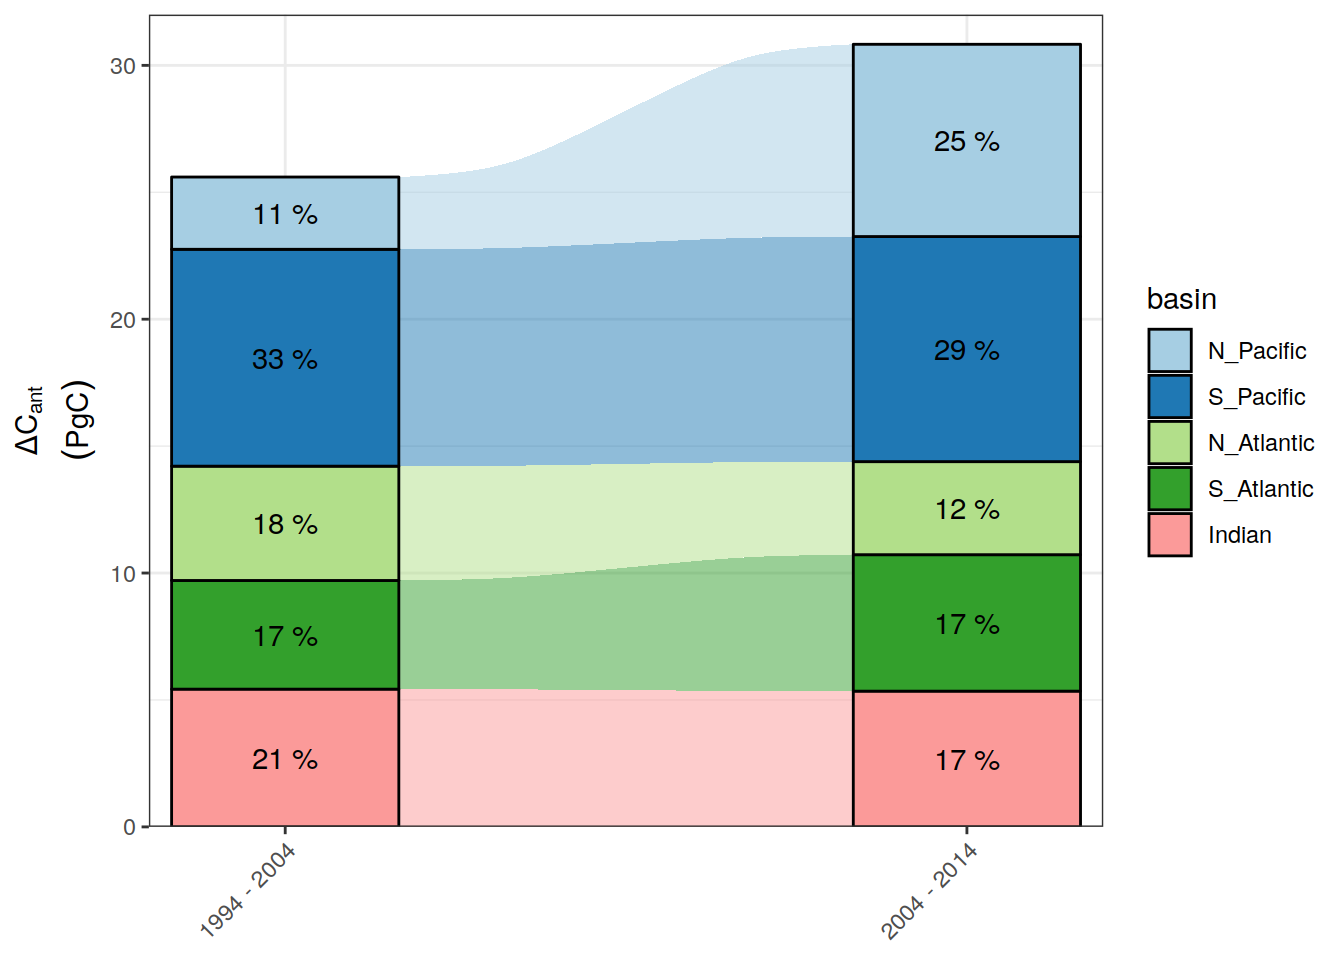
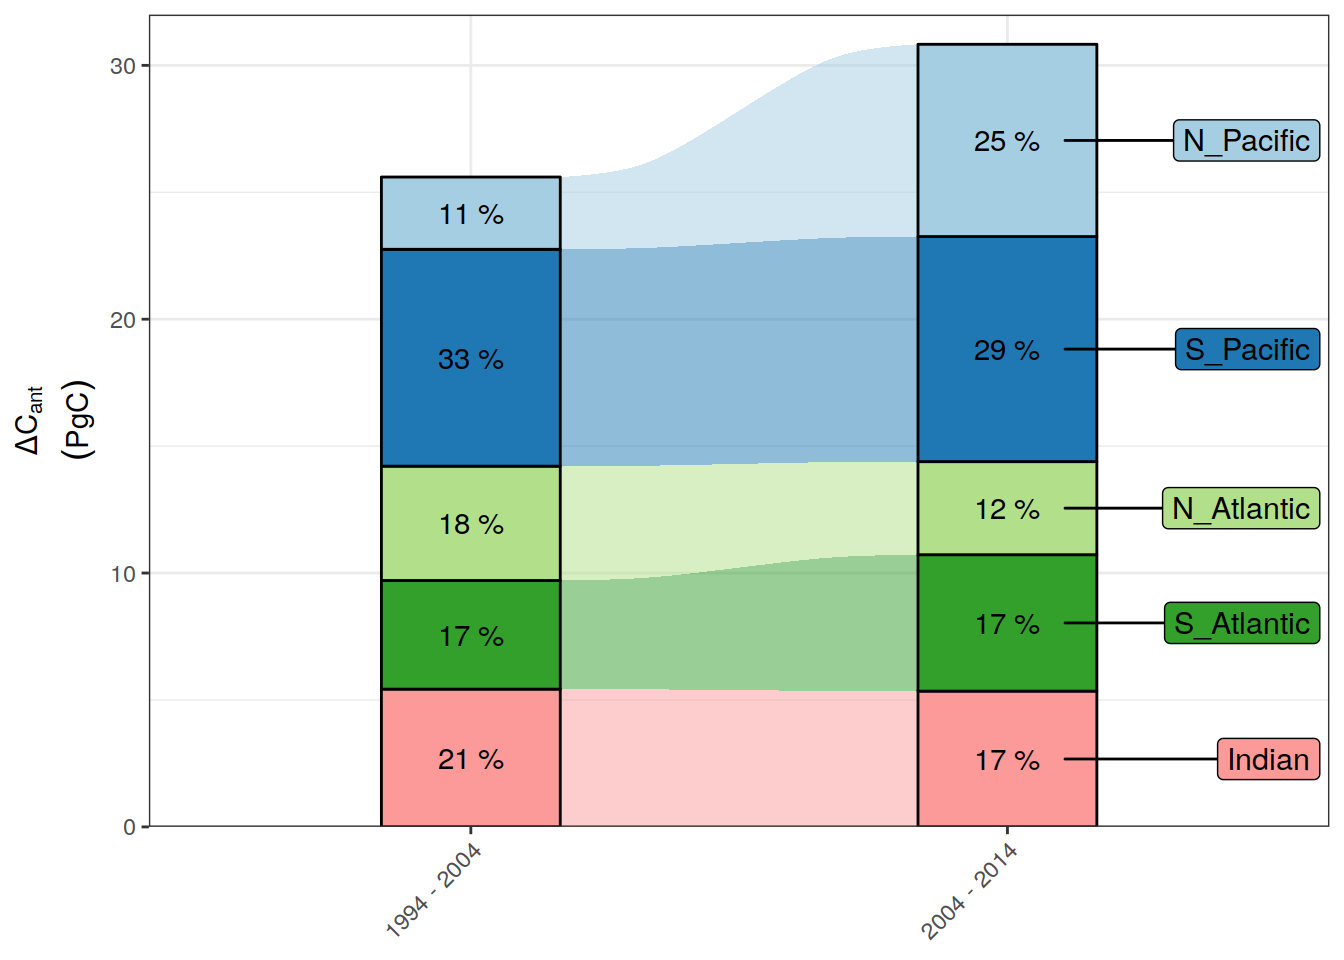
Build site.

diff --git a/docs/results_publication.html b/docs/results_publication.html
@@ -645,16 +645,16 @@ This reproducible <a href="http://rmarkdown.rstudio.com">R Markdown</a> analysis
 <div class="panel panel-default">
 <div class="panel-heading">
 <p class="panel-title">
-<a data-toggle="collapse" data-parent="#workflowr-checks" href="#strongRepositoryversionstrongahrefhttpsgithubcomjensdanielmuelleremlrobsanalysistreecdbd92cdd8b9888cfcb87dbf480b8ccfe9879034targetblankcdbd92ca"> <span class="glyphicon glyphicon-ok text-success" aria-hidden="true"></span> <strong>Repository version:</strong> <a href="https://github.com/jens-daniel-mueller/emlr_obs_analysis/tree/cdbd92cdd8b9888cfcb87dbf480b8ccfe9879034" target="_blank">cdbd92c</a> </a>
+<a data-toggle="collapse" data-parent="#workflowr-checks" href="#strongRepositoryversionstrongahrefhttpsgithubcomjensdanielmuelleremlrobsanalysistree4901b0fa12cfd097637f7c56dafa1d5ea76a2561targetblank4901b0fa"> <span class="glyphicon glyphicon-ok text-success" aria-hidden="true"></span> <strong>Repository version:</strong> <a href="https://github.com/jens-daniel-mueller/emlr_obs_analysis/tree/4901b0fa12cfd097637f7c56dafa1d5ea76a2561" target="_blank">4901b0f</a> </a>
 </p>
 </div>
[2 lines of base64/hex data omitted]
 <div class="panel-body">
 <p>
 Great! You are using Git for version control. Tracking code development and connecting the code version to the results is critical for reproducibility.
 </p>
 <p>
-The results in this page were generated with repository version <a href="https://github.com/jens-daniel-mueller/emlr_obs_analysis/tree/cdbd92cdd8b9888cfcb87dbf480b8ccfe9879034" target="_blank">cdbd92c</a>. See the <em>Past versions</em> tab to see a history of the changes made to the R Markdown and HTML files.
+The results in this page were generated with repository version <a href="https://github.com/jens-daniel-mueller/emlr_obs_analysis/tree/4901b0fa12cfd097637f7c56dafa1d5ea76a2561" target="_blank">4901b0f</a>. See the <em>Past versions</em> tab to see a history of the changes made to the R Markdown and HTML files.
 </p>
 <p>
 Note that you need to be careful to ensure that all relevant files for the analysis have been committed to Git prior to generating the results (you can use <code>wflow_publish</code> or <code>wflow_git_commit</code>). workflowr only checks the R Markdown file, but you know if there are other scripts or data files that it depends on. Below is the status of the Git repository when the results were generated:
@@ -663,7 +663,6 @@ Note that you need to be careful to ensure that all relevant files for the analy
 Ignored files:
     Ignored:    .Rhistory
     Ignored:    .Rproj.user/
-    Ignored:    analysis/figure/
     Ignored:    data/
     Ignored:    output/other/
     Ignored:    output/publication/
@@ -705,6 +704,40 @@ Message
 </tr>
 </thead>
 <tbody>
+<tr>
+<td>
+Rmd
+</td>
+<td>
+<a href="https://github.com/jens-daniel-mueller/emlr_obs_analysis/blob/4901b0fa12cfd097637f7c56dafa1d5ea76a2561/analysis/results_publication.Rmd" target="_blank">4901b0f</a>
+</td>
+<td>
+jens-daniel-mueller
+</td>
+<td>
+2022-01-20
+</td>
+<td>
+updated alluvial plots
+</td>
+</tr>
+<tr>
+<td>
+html
+</td>
+<td>
+<a href="https://rawcdn.githack.com/jens-daniel-mueller/emlr_obs_analysis/44796b1af59fab43c8866d47a3a919fc7175d4f1/docs/results_publication.html" target="_blank">44796b1</a>
+</td>
+<td>
+jens-daniel-mueller
+</td>
+<td>
+2022-01-20
+</td>
+<td>
+Build site.
+</td>
+</tr>
 <tr>
 <td>
 Rmd
@@ -1151,6 +1184,43 @@ dcant_budget_basin_MLR_all_plot %&gt;%
   theme(axis.text.x = element_text(angle = 45, hjust=1),
         axis.title.x = element_blank())</code></pre>
 <p><img src="figure/results_publication.Rmd/cases_absolute_basins_hemisphere-1.png" width="672" style="display: block; margin: auto;" /></p>
+<p>
+<button type="button" class="btn btn-default btn-xs btn-workflowr btn-workflowr-fig" data-toggle="collapse" data-target="#fig-cases_absolute_basins_hemisphere-1">
+Past versions of cases_absolute_basins_hemisphere-1.png
+</button>
+</p>
+<div id="fig-cases_absolute_basins_hemisphere-1" class="collapse">
+<div class="table-responsive">
+<table class="table table-condensed table-hover">
+<thead>
+<tr>
+<th>
+Version
+</th>
+<th>
+Author
+</th>
+<th>
+Date
+</th>
+</tr>
+</thead>
+<tbody>
+<tr>
+<td>
+<a href="https://github.com/jens-daniel-mueller/emlr_obs_analysis/blob/44796b1af59fab43c8866d47a3a919fc7175d4f1/docs/figure/results_publication.Rmd/cases_absolute_basins_hemisphere-1.png" target="_blank">44796b1</a>
+</td>
+<td>
+jens-daniel-mueller
+</td>
+<td>
+2022-01-20
+</td>
+</tr>
+</tbody>
+</table>
+</div>
+</div>
 <pre class="r"><code>dcant_budget_basin_MLR_all_plot %&gt;%
   ggplot(aes(
     y = dcant,
@@ -1170,6 +1240,43 @@ dcant_budget_basin_MLR_all_plot %&gt;%
   theme(axis.text.x = element_text(angle = 45, hjust = 1),
         axis.title.x = element_blank())</code></pre>
 <p><img src="figure/results_publication.Rmd/cases_absolute_basins_hemisphere_alluvial-1.png" width="672" style="display: block; margin: auto;" /></p>
+<p>
+<button type="button" class="btn btn-default btn-xs btn-workflowr btn-workflowr-fig" data-toggle="collapse" data-target="#fig-cases_absolute_basins_hemisphere_alluvial-1">
+Past versions of cases_absolute_basins_hemisphere_alluvial-1.png
+</button>
+</p>
+<div id="fig-cases_absolute_basins_hemisphere_alluvial-1" class="collapse">
+<div class="table-responsive">
+<table class="table table-condensed table-hover">
+<thead>
+<tr>
+<th>
+Version
+</th>
+<th>
+Author
+</th>
+<th>
+Date
+</th>
+</tr>
+</thead>
+<tbody>
+<tr>
+<td>
+<a href="https://github.com/jens-daniel-mueller/emlr_obs_analysis/blob/44796b1af59fab43c8866d47a3a919fc7175d4f1/docs/figure/results_publication.Rmd/cases_absolute_basins_hemisphere_alluvial-1.png" target="_blank">44796b1</a>
+</td>
+<td>
+jens-daniel-mueller
+</td>
+<td>
+2022-01-20
+</td>
+</tr>
+</tbody>
+</table>
+</div>
+</div>
 <pre class="r"><code>dcant_budget_basin_MLR_all_plot %&gt;%
   ggplot(aes(
     y = dcant,
@@ -1183,13 +1290,59 @@ dcant_budget_basin_MLR_all_plot %&gt;%
   geom_stratum() +
   # geom_text(stat = &quot;stratum&quot;, size = 4) +
   geom_text(stat = &quot;stratum&quot;, aes(label = paste(100*round(after_stat(prop), 2), &quot;%&quot;))) +
-  scale_fill_brewer(palette = &quot;Paired&quot;) +
+  ggrepel::geom_label_repel(
+    data = dcant_budget_basin_MLR_all_plot %&gt;% filter(period == &quot;2004 - 2014&quot;),
+    stat = &quot;stratum&quot;,
+    size = 4,
+    nudge_x = .5,
+    point.padding = 3,
+    aes(fill = basin)
+  )+
+  scale_fill_brewer(palette = &quot;Paired&quot;, guide = &quot;none&quot;) +
+  scale_color_brewer(palette = &quot;Paired&quot;, guide = &quot;none&quot;) +
   scale_y_continuous(limits = c(0, 32), expand = c(0, 0)) +
-  scale_x_discrete(expand = c(0.1, 0.1)) +
+  # scale_x_discrete(expand = c(0.1, 0.1)) +
   labs(y = dcant_budget) +
   theme(axis.text.x = element_text(angle = 45, hjust = 1),
         axis.title.x = element_blank())</code></pre>
 <p><img src="figure/results_publication.Rmd/cases_absolute_basins_hemisphere_alluvial-2.png" width="672" style="display: block; margin: auto;" /></p>
+<p>
+<button type="button" class="btn btn-default btn-xs btn-workflowr btn-workflowr-fig" data-toggle="collapse" data-target="#fig-cases_absolute_basins_hemisphere_alluvial-2">
+Past versions of cases_absolute_basins_hemisphere_alluvial-2.png
+</button>
+</p>
+<div id="fig-cases_absolute_basins_hemisphere_alluvial-2" class="collapse">
+<div class="table-responsive">
+<table class="table table-condensed table-hover">
+<thead>
+<tr>
+<th>
+Version
+</th>
+<th>
+Author
+</th>
+<th>
+Date
+</th>
+</tr>
+</thead>
+<tbody>
+<tr>
+<td>
+<a href="https://github.com/jens-daniel-mueller/emlr_obs_analysis/blob/44796b1af59fab43c8866d47a3a919fc7175d4f1/docs/figure/results_publication.Rmd/cases_absolute_basins_hemisphere_alluvial-2.png" target="_blank">44796b1</a>
+</td>
+<td>
+jens-daniel-mueller
+</td>
+<td>
+2022-01-20
+</td>
+</tr>
+</tbody>
+</table>
+</div>
+</div>
 <br>
 <p>
 <button type="button" class="btn btn-default btn-workflowr btn-workflowr-sessioninfo" data-toggle="collapse" data-target="#workflowr-sessioninfo" style="display: block;">
@@ -1226,28 +1379,29 @@ other attached packages:
 loaded via a namespace (and not attached):
  [1] httr_1.4.2               viridisLite_0.3.0        jsonlite_1.7.1          
  [4] modelr_0.1.8             assertthat_0.2.1         highr_0.8               
- [7] blob_1.2.1               cellranger_1.1.0         yaml_2.2.1              
-[10] pillar_1.6.2             backports_1.1.10         lattice_0.20-41         
-[13] glue_1.4.2               RcppEigen_0.3.3.7.0      digest_0.6.27           
-[16] RColorBrewer_1.1-2       promises_1.1.1           polyclip_1.10-0         
-[19] checkmate_2.0.0          rvest_0.3.6              colorspace_2.0-2        
-[22] htmltools_0.5.0          httpuv_1.5.4             Matrix_1.2-18           
-[25] pkgconfig_2.0.3          broom_0.7.9              haven_2.3.1             
-[28] scales_1.1.1             tweenr_1.0.2             whisker_0.4             
-[31] later_1.2.0              git2r_0.27.1             generics_0.1.0          
-[34] farver_2.0.3             ellipsis_0.3.2           withr_2.3.0             
-[37] cli_3.0.1                magrittr_1.5             crayon_1.3.4            
-[40] readxl_1.3.1             evaluate_0.14            fs_1.5.0                
-[43] fansi_0.4.1              MASS_7.3-53              xml2_1.3.2              
-[46] RcppArmadillo_0.10.1.0.0 tools_4.0.3              data.table_1.14.0       
-[49] hms_0.5.3                lifecycle_1.0.0          munsell_0.5.0           
-[52] reprex_0.3.0             compiler_4.0.3           rlang_0.4.10            
-[55] grid_4.0.3               rstudioapi_0.13          labeling_0.4.2          
-[58] rmarkdown_2.10           gtable_0.3.0             DBI_1.1.0               
-[61] R6_2.5.0                 lubridate_1.7.9          knitr_1.33              
-[64] utf8_1.1.4               rprojroot_2.0.2          stringi_1.5.3           
-[67] parallel_4.0.3           Rcpp_1.0.5               vctrs_0.3.8             
-[70] dbplyr_1.4.4             tidyselect_1.1.0         xfun_0.25               </code></pre>
+ [7] blob_1.2.1               cellranger_1.1.0         ggrepel_0.8.2           
+[10] yaml_2.2.1               pillar_1.6.2             backports_1.1.10        
+[13] lattice_0.20-41          glue_1.4.2               RcppEigen_0.3.3.7.0     
+[16] digest_0.6.27            RColorBrewer_1.1-2       promises_1.1.1          
+[19] polyclip_1.10-0          checkmate_2.0.0          rvest_0.3.6             
+[22] colorspace_2.0-2         htmltools_0.5.0          httpuv_1.5.4            
+[25] Matrix_1.2-18            pkgconfig_2.0.3          broom_0.7.9             
+[28] haven_2.3.1              scales_1.1.1             tweenr_1.0.2            
+[31] whisker_0.4              later_1.2.0              git2r_0.27.1            
+[34] generics_0.1.0           farver_2.0.3             ellipsis_0.3.2          
+[37] withr_2.3.0              cli_3.0.1                magrittr_1.5            
+[40] crayon_1.3.4             readxl_1.3.1             evaluate_0.14           
+[43] fs_1.5.0                 fansi_0.4.1              MASS_7.3-53             
+[46] xml2_1.3.2               RcppArmadillo_0.10.1.0.0 tools_4.0.3             
+[49] data.table_1.14.0        hms_0.5.3                lifecycle_1.0.0         
+[52] munsell_0.5.0            reprex_0.3.0             compiler_4.0.3          
+[55] rlang_0.4.10             grid_4.0.3               rstudioapi_0.13         
+[58] labeling_0.4.2           rmarkdown_2.10           gtable_0.3.0            
+[61] DBI_1.1.0                R6_2.5.0                 lubridate_1.7.9         
+[64] knitr_1.33               utf8_1.1.4               rprojroot_2.0.2         
+[67] stringi_1.5.3            parallel_4.0.3           Rcpp_1.0.5              
+[70] vctrs_0.3.8              dbplyr_1.4.4             tidyselect_1.1.0        
+[73] xfun_0.25               </code></pre>
 </div>
 </div>
 </div>
